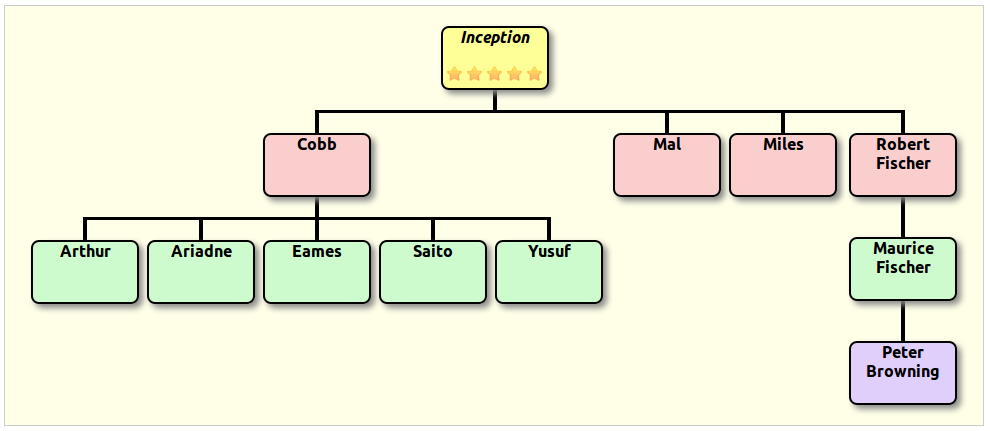
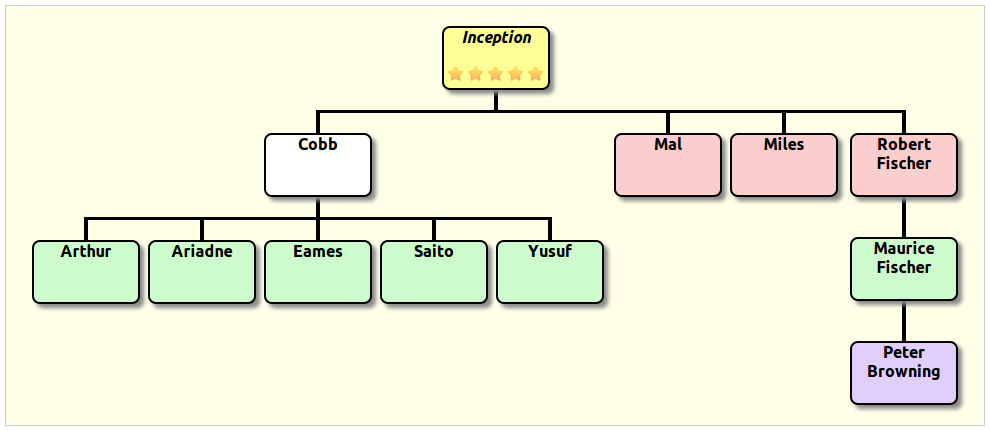
Copy the CSS classes from the list item to the corresponding chart node.

diff --git a/jquery.orgchart.min.js b/jquery.orgchart.min.js
@@ -12,8 +12,8 @@
  *
  *     http://creativecommons.org/licenses/by-sa/3.0
  */
-(function(a){function n(d,e,k,c){var p=a("<table cellpadding='0' cellspacing='0' border='0'/>"),h=a("<tbody/>"),j=a("<tr/>").addClass("nodes"),g=a("<td/>").addClass("node").attr("colspan",2),b=d.children("ul:first").children("li");1<b.length&&g.attr("colspan",2*b.length);var l=a("<h2>").html(c.nodeText(d));$nodeDiv=a("<div>").addClass("node").addClass("level"+k).data("orgchart-level",k).data("orgchart-node",d).append(l);g.append($nodeDiv);j.append(g);h.append(j);$nodeDiv.click(function(){var f=a(this);
-c.nodeClicked(f.data("orgchart-node"));c.interactive&&(f=f.closest("tr"),f.next("tr").is(":visible")?c.fade?f.nextAll("tr").fadeOut(c.speed):f.nextAll("tr").hide():c.fade?f.nextAll("tr").fadeIn(c.speed):f.nextAll("tr").show())});if(0<b.length){if(-1==c.depth||k+1<c.depth){d=a("<tr/>").addClass("lines");j=a("<td/>").attr("colspan",2*b.length);d.append(j);g=a("<table cellpadding='0' cellspacing='0' border='0'>");g.append("<tbody>");var l=a("<tr/>").addClass("lines x"),r=a("<td>").addClass("line left"),
-s=a("<td>").addClass("line right");l.append(r).append(s);g.children("tbody").append(l);j.append(g);h.append(d);0<b.length&&($nodeDiv.addClass("hasChildren"),c.interactive&&$nodeDiv.hover(function(){a(this).addClass(c.hoverClass)},function(){a(this).removeClass(c.hoverClass)}));var m=a("<tr/>").addClass("lines v");b.each(function(){var c=a("<td/>").addClass("line left top"),b=a("<td/>").addClass("line right top");m.append(c).append(b)});m.find("td:first").removeClass("top");m.find("td:last").removeClass("top");
-h.append(m);var q=a("<tr/>");b.each(function(){var b=a("<td/>");b.attr("colspan",2);n(a(this),b,k+1,c);q.append(b)})}else c.stack&&(b=b.clone(),b=a("<ul class='stack'>").append(b),$nodeDiv.after(b));h.append(q)}p.append(h);e.append(p)}a.fn.orgChart=function(d){var e=a.extend({},a.fn.orgChart.defaults,d);return this.each(function(){$this=a(this).clone();-1<e.levels&&$this.find("ul").andSelf().filter(function(){return a(this).parents("ul").length+1>e.levels}).remove();var d=a("<div class='"+e.chartClass+
-"'/>");e.interactive&&d.addClass("interactive");$this.is("ul")&&n($this.find("li:first"),d,0,e);d.find("div.node a").click(function(a){a.stopImmediatePropagation()});e.container.append(d)})};a.fn.orgChart.defaults={container:a("body"),depth:-1,levels:-1,stack:!1,chartClass:"orgChart",hoverClass:"hover",nodeText:function(a){return a.clone().children("ul,li").remove().end().html()},interactive:!1,fade:!1,speed:"slow",nodeClicked:function(){}}})(jQuery);
+(function(a){function n(d,e,k,c){var p=a("<table cellpadding='0' cellspacing='0' border='0'/>"),h=a("<tbody/>"),j=a("<tr/>").addClass("nodes"),g=a("<td/>").addClass("node").attr("colspan",2),b=d.children("ul:first").children("li");1<b.length&&g.attr("colspan",2*b.length);var l=a("<h2>").html(c.nodeText(d));$nodeDiv=a("<div>").addClass("node").addClass("level"+k).data("orgchart-level",k).data("orgchart-node",d).append(l);$nodeDiv.addClass(d.attr("class"));g.append($nodeDiv);j.append(g);h.append(j);
+$nodeDiv.click(function(){var f=a(this);c.nodeClicked(f.data("orgchart-node"));c.interactive&&(f=f.closest("tr"),f.next("tr").is(":visible")?c.fade?f.nextAll("tr").fadeOut(c.speed):f.nextAll("tr").hide():c.fade?f.nextAll("tr").fadeIn(c.speed):f.nextAll("tr").show())});if(0<b.length){if(-1==c.depth||k+1<c.depth){d=a("<tr/>").addClass("lines");j=a("<td/>").attr("colspan",2*b.length);d.append(j);g=a("<table cellpadding='0' cellspacing='0' border='0'>");g.append("<tbody>");var l=a("<tr/>").addClass("lines x"),
+r=a("<td>").addClass("line left"),s=a("<td>").addClass("line right");l.append(r).append(s);g.children("tbody").append(l);j.append(g);h.append(d);0<b.length&&($nodeDiv.addClass("hasChildren"),c.interactive&&$nodeDiv.hover(function(){a(this).addClass(c.hoverClass)},function(){a(this).removeClass(c.hoverClass)}));var m=a("<tr/>").addClass("lines v");b.each(function(){var c=a("<td/>").addClass("line left top"),b=a("<td/>").addClass("line right top");m.append(c).append(b)});m.find("td:first").removeClass("top");
+m.find("td:last").removeClass("top");h.append(m);var q=a("<tr/>");b.each(function(){var b=a("<td/>");b.attr("colspan",2);n(a(this),b,k+1,c);q.append(b)})}else c.stack&&(b=b.clone(),b=a("<ul class='stack'>").append(b),$nodeDiv.after(b));h.append(q)}p.append(h);e.append(p)}a.fn.orgChart=function(d){var e=a.extend({},a.fn.orgChart.defaults,d);return this.each(function(){$this=a(this).clone();-1<e.levels&&$this.find("ul").andSelf().filter(function(){return a(this).parents("ul").length+1>e.levels}).remove();
+var d=a("<div class='"+e.chartClass+"'/>");e.interactive&&d.addClass("interactive");$this.is("ul")&&n($this.find("li:first"),d,0,e);d.find("div.node a").click(function(a){a.stopImmediatePropagation()});e.container.append(d)})};a.fn.orgChart.defaults={container:a("body"),depth:-1,levels:-1,stack:!1,chartClass:"orgChart",hoverClass:"hover",nodeText:function(a){return a.clone().children("ul,li").remove().end().html()},interactive:!1,fade:!1,speed:"slow",nodeClicked:function(){}}})(jQuery);

diff --git a/demo/styling-levels.html b/demo/styling-levels.html
@@ -9,6 +9,9 @@
         div.orgChart div.node.level1 {
             background-color: #fbcece;
         }
+        div.orgChart div.node.level1.special {
+            background-color: white;
+        }
         div.orgChart div.node.level2 {
             background-color: #cefbce;
         }
@@ -37,7 +40,7 @@
                     <img class="star" src="star-one.png">
                     <img class="star" src="star-one.png">
                     <ul>
-                        <li>Cobb
+                        <li class="special">Cobb
                             <ul>
                                 <li>Arthur</li>
                                 <li>Ariadne</li>
@@ -82,6 +85,9 @@ $("#organisation").orgChart({container: $("#main")});
                 <pre>
 div.orgChart div.node.level1 {
     background-color: #fbcece;
+}
+div.orgChart div.node.level1.special {
+    background-color: white;
 }
 div.orgChart div.node.level2 {
     background-color: #cefbce;

diff --git a/jquery.orgchart.js b/jquery.orgchart.js
@@ -66,6 +66,9 @@
         var $heading = $("<h2>").html(opts.nodeText($node));
         $nodeDiv = $("<div>").addClass("node").addClass("level"+level).data("orgchart-level", level).data("orgchart-node", $node).append($heading);
 
+        // Copy classes from the source list to the chart node
+        $nodeDiv.addClass($node.attr("class"));
+
         $nodeCell.append($nodeDiv);
         $nodeRow.append($nodeCell);
         $tbody.append($nodeRow);

diff --git a/README.md b/README.md
@@ -59,6 +59,9 @@ $("#organisation").orgChart({container: $("#main")});
 div.orgChart div.node.level1 {
     background-color: #fbcece;
 }
+div.orgChart div.node.level1.special {
+    background-color: white;
+}
 div.orgChart div.node.level2 {
     background-color: #cefbce;
 }
@@ -68,5 +71,7 @@ div.orgChart div.node.level3 {
 ```
 
 Each node in the chart automatically gets assigned a class for its level, this can be used to style each level individually.
+
+Any classes that are specified on items in the source list get applied to the corresponding chart node, this can also be used to customise the style for a particular node or collection of nodes. In this example the main protagonist has his own unique background colour applied, overriding the colour for his level in the chart.
 
 [Source for Styling Levels Demo](https://github.com/caprica/jquery-orgchart/blob/master/demo/styling-levels.html)
